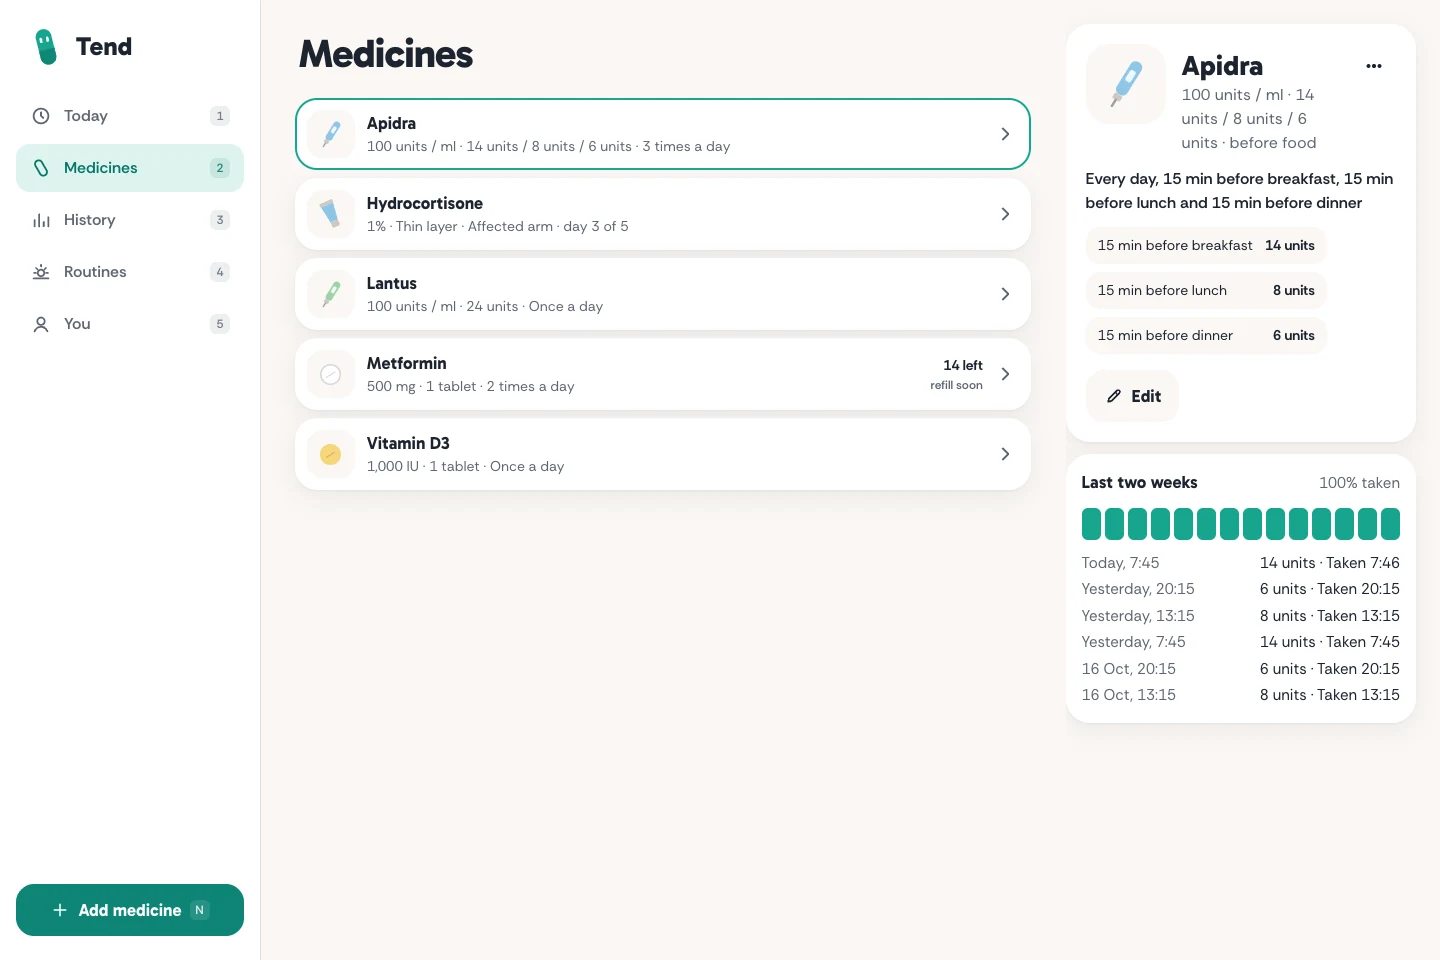
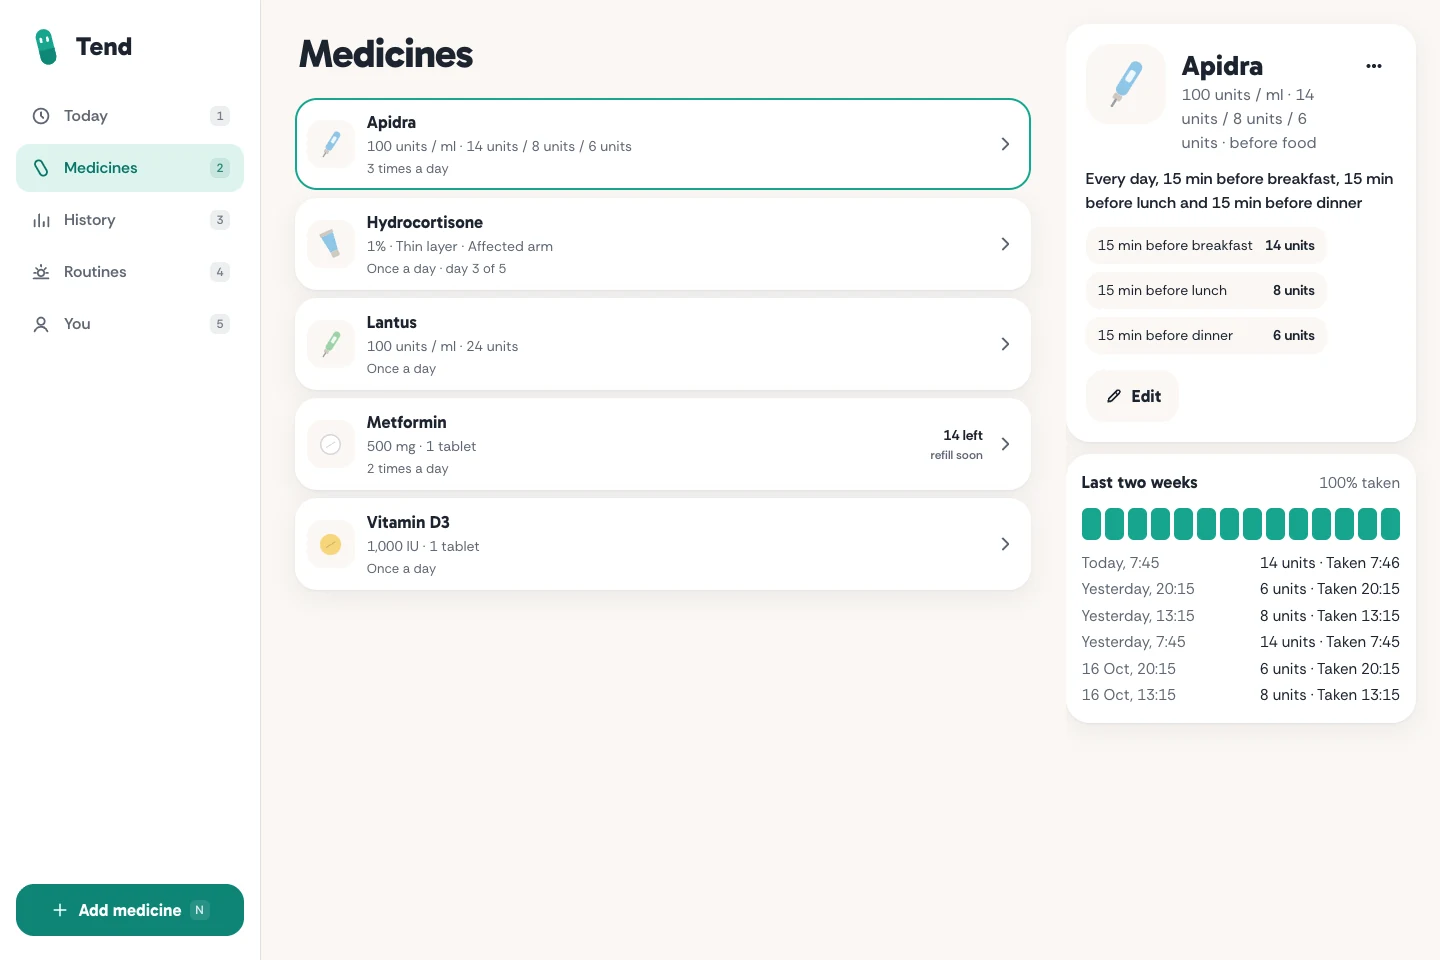
Polish medicine lists and remove native name suggestions

diff --git a/src/screens/MedicineEdit.tsx b/src/screens/MedicineEdit.tsx
@@ -344,28 +344,55 @@ function MedicineFields({
   shorthand: boolean;
 }) {
   const id = useId();
+  const nameInput = useRef<HTMLInputElement>(null);
+  const query = d.name.trim().toLocaleLowerCase();
+  const suggestions = query
+    ? [...new Set(names)]
+        .filter((name) => {
+          const candidate = name.toLocaleLowerCase();
+          return candidate.includes(query) && candidate !== query;
+        })
+        .slice(0, 4)
+    : [];
   const fields = FORM_FIELDS[d.form];
   const type = d.insulin ? 'insulin' : d.form;
   return (
     <>
       <Field label="Medicine name" htmlFor={`${id}-name`}>
         <input
+          ref={nameInput}
           id={`${id}-name`}
           name="med-name"
           className="field"
           value={d.name}
           onChange={(e) => set({ name: e.target.value })}
-          list={`${id}-names`}
           autoComplete="off"
           autoCapitalize="words"
           placeholder="Name on the label"
           enterKeyHint="next"
         />
-        <datalist id={`${id}-names`}>
-          {[...new Set(names)].map((name) => (
-            <option key={name} value={name} />
-          ))}
-        </datalist>
+        {suggestions.length > 0 && (
+          <div>
+            <p className="mb-1 text-[13px] text-soft">Previously added</p>
+            <div className="flex flex-wrap gap-1.5">
+              {suggestions.map((name) => (
+                <button
+                  key={name}
+                  type="button"
+                  className="press min-h-11 max-w-full rounded-[12px] bg-pip-wash px-3 text-left font-semibold text-[14px] text-pip-ink wrap-anywhere"
+                  aria-label={`Use medicine name ${name}`}
+                  onPointerDown={(e) => e.preventDefault()}
+                  onClick={() => {
+                    set({ name });
+                    nameInput.current?.focus({ preventScroll: true });
+                  }}
+                >
+                  {name}
+                </button>
+              ))}
+            </div>
+          </div>
+        )}
       </Field>
       <Field label="Medicine type">
         <div

diff --git a/src/screens/Today.tsx b/src/screens/Today.tsx
@@ -2,7 +2,6 @@ import { useEffect, useState } from 'react';
 import { useLayout } from '../app/layout.ts';
 import { themeColor, useTheme } from '../app/theme.ts';
 import ActionSheet from '../components/ActionSheet.tsx';
-import DayRing from '../components/DayRing.tsx';
 import Icon from '../components/Icon.tsx';
 import MedRow from '../components/MedRow.tsx';
 import { Pill } from '../components/PillLook.tsx';
@@ -60,7 +59,6 @@ export default function Today() {
   const { mode, panel, wide } = useLayout();
   const dark = useTheme();
   const [hold, setHold] = useState<Slot | null>(null);
-  const [flash, setFlash] = useState(false);
   useTitle('Tend · Your medicines, on time');
 
   const focus = hold ?? t.focus;
@@ -74,23 +72,9 @@ export default function Today() {
 
   function onTake(slot: Slot, at?: string) {
     setHold(slot);
-    setFlash(true);
     take(slot.doses, slot.label, at);
     setTimeout(() => setHold(null), 450);
-    setTimeout(() => setFlash(false), 2600);
   }
-
-  const ringMood: Mood = flash
-    ? 'taken'
-    : night
-      ? 'sleep'
-      : t.focus?.state === 'due'
-        ? 'due'
-        : t.allDone
-          ? 'done'
-          : t.low.length
-            ? 'low'
-            : 'idle';
 
   if (!t.ready) return <div className="flex-1" />;
 
@@ -130,12 +114,6 @@ export default function Today() {
           onClick={() => navigate('/medicine/new')}
         />
       )}
-      <DayRing
-        done={t.progress.done}
-        total={t.progress.total}
-        mood={ringMood}
-        size={wide ? 64 : 56}
-      />
     </header>
   );
 

diff --git a/src/screens/Medicines.tsx b/src/screens/Medicines.tsx
@@ -122,8 +122,11 @@ function MedCard({ med, selected }: { med: Medicine; selected?: boolean }) {
           {med.name}
         </b>
         <span className="num block wrap-anywhere text-[14px] text-soft">
-          {doseLine(med, false)} ·{' '}
-          {c?.total ? `day ${c.n} of ${c.total}` : shortSchedule(med.schedule)}
+          {doseLine(med, false)}
+        </span>
+        <span className="num mt-0.5 block wrap-anywhere text-[13px] text-soft">
+          {shortSchedule(med.schedule)}
+          {c?.total ? ` · day ${c.n} of ${c.total}` : ''}
         </span>
       </span>
       {info && (

diff --git a/README.md b/README.md
@@ -20,7 +20,7 @@ a gentle medicine reminder that lives on your phone. tell it when your day happe
 - **type it like the prescription.** `Metformin 500mg 1-0-1 PC`, `Syp Calpol 5ml TDS x 3 days`, `Tab Dolo 650mg SOS`, or `Inj Apidra 14-8-6 units AC`. an optional shortcut previews the interpretation; choose “Use these details” to fill the form, then review it before saving.
 - **logging that forgives.** take a whole routine at once, one medicine, or at another time (long-press). snooze, skip, swipe a row to skip just that one. every action has undo. a dose you never logged says not logged, never missed.
 - **stock.** a count per medicine that drops when you take it, a refill nudge at a chosen number of days of supply, and a refilled button that adds your saved refill amount. counts use tablets, ml, puffs, patches or insulin units as appropriate.
-- **edit, archive or delete.** open a medicine to edit it, or use its menu to archive it while keeping history. deleting removes the medicine and its logs, with a brief undo. closing a new-medicine sheet stays in Medicines, including when it was opened from Today.
+- **edit, archive or delete.** the Medicines list puts each dose and frequency on separate lines. open a medicine to edit it, or use its menu to archive it while keeping history. deleting removes the medicine and its logs, with a brief undo. closing a new-medicine sheet stays in Medicines, including when it was opened from Today.
 - **history without streaks.** a ring per day for the week, the times for any day, and a gentle percentage per medicine over 30 days.
 - **travel mode.** doses follow the local clock by default. keep home time instead and every routine stays on your home zone abroad, for medicines that need a steady gap, with the time here shown beside it. tend notices a new zone and asks.
 - **for the doctor.** a my medicines card to share or copy, an `.ics` export with alerts for anyone who won't install, and a json backup and restore.
@@ -51,12 +51,12 @@ a gentle medicine reminder that lives on your phone. tell it when your day happe
 
 The field choices follow medicine-use guidance from the NHS for [insulin](https://www.nhs.uk/medicines/insulin/rapid-acting-insulin/how-and-when-to-take-rapid-acting-insulin/), [topical treatments](https://www.nhs.uk/medicines/mometasone-for-skin/how-and-when-to-use-mometasone-for-skin/), [patches](https://www.nhs.uk/medicines/buprenorphine-for-pain/how-and-when-to-use-buprenorphine/), [inhalers](https://www.nhs.uk/medicines/salbutamol-inhaler/how-and-when-to-use-salbutamol-inhalers/) and [drops](https://www.nhs.uk/medicines/dexamethasone-eye-drops/how-and-when-to-use-dexamethasone-eye-drops/). These are reminder fields, not dose calculations. The screenshot entries are examples.
 
-[See the cream editor](docs/cream-phone.webp) · [See multiple medicines in onboarding](docs/welcome-medicines-phone.webp) · [See medicine details on desktop](docs/medicine-desktop.webp)
+[See the Medicines list](docs/medicines-phone.webp) · [See the cream editor](docs/cream-phone.webp) · [See multiple medicines in onboarding](docs/welcome-medicines-phone.webp) · [See medicine details on desktop](docs/medicine-desktop.webp)
 
 ### left out on purpose
 
 - interaction checks. that is medical advice, there is no free licensed data, and most indian brands are missing.
-- name lookup. rxnorm is us only, so names you have already typed are suggested instead.
+- name lookup. rxnorm is us only, so previously added names are suggested as you type, using Tend-styled buttons inside the editor.
 - caregiver alerts. they need accounts. maybe later.
 - alarms that break silent mode. the web can't.
 - streaks.
@@ -92,7 +92,7 @@ pip is one svg with two quadratic-curve eyes. each eye blends between a pill (a 
 - **a night mode that earns it.** the bedtime dose gets checked in a dark room, so dark follows the system, and once bedtime is logged today turns navy and pip goes to sleep whatever the theme.
 - **type.** gabarito for greetings, titles, times and buttons, rethink sans for names, doses and everything you read. both ofl, self-hosted as latin and latin-ext woff2, preloaded, with arial fallbacks tuned by size-adjust and ascent, descent and line-gap overrides so nothing jumps when they load.
 - **one layout per size.** a bottom tab bar on phones, a rail in landscape and on tablets, a context panel from 1024 where the dose and medicine details open, and a sidebar with keys from 1440.
-- **pickers belong to the app.** time and date controls use Tend sheets, colours and touch targets instead of opening a separate native picker. on touch-enabled Chrome, the keyboard overlays a stable page canvas while the app and sheets fit above it using keyboard insets; other browsers use the visual viewport. this also applies in onboarding and the installed PWA.
+- **pickers belong to the app.** time and date controls use Tend sheets, colours and touch targets instead of opening a separate native picker. medicine-name suggestions stay inside the sheet too, without Chrome's native datalist popup above the keyboard. on touch-enabled Chrome, the keyboard overlays a stable page canvas while the app and sheets fit above it using keyboard insets; other browsers use the visual viewport. this also applies in onboarding and the installed PWA.
 - **installed, it feels installed.** standalone with no url bar, an animated pip splash with matching ios launch images, and theme colours for the status bar.
 
 ## keyboard
